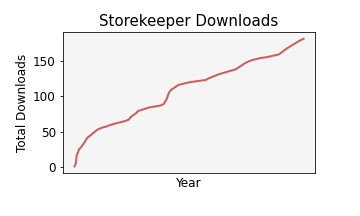
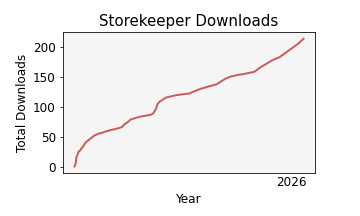
New Version Available: Check for preview release

diff --git a/release_notes.md b/release_notes.md
@@ -33,7 +33,7 @@ See the [<ins>**Tree Search Options**</ins>](https://github.com/rmcanany/SolidEd
 - Fixed a regression where character encoding in non-US locales caused a runtime exception at startup (Thank you again **@TeeVar**!)
 - Fixed an issue where the `Property Cache` was not properly updating if a file change was detected (Thank you one more time **@TeeVar**!)
 - Updated to the most recent OpenMcdf version
-
+- Fixed an issue where users running preview code were not notified when the finalized version was released.
 
 
 ## V2025.4